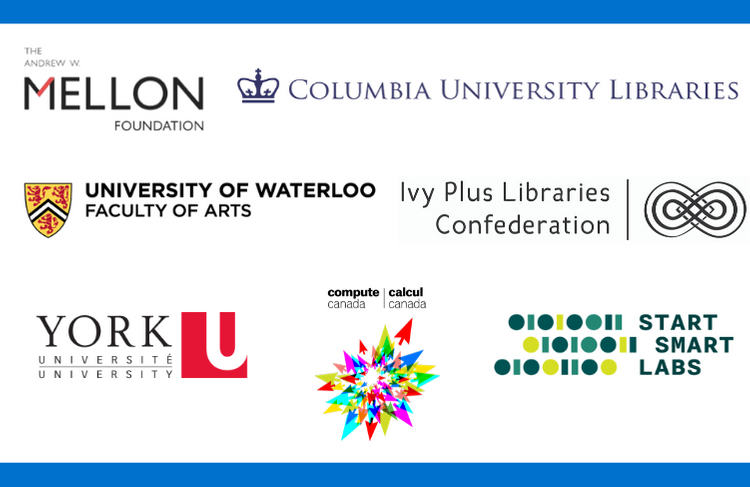
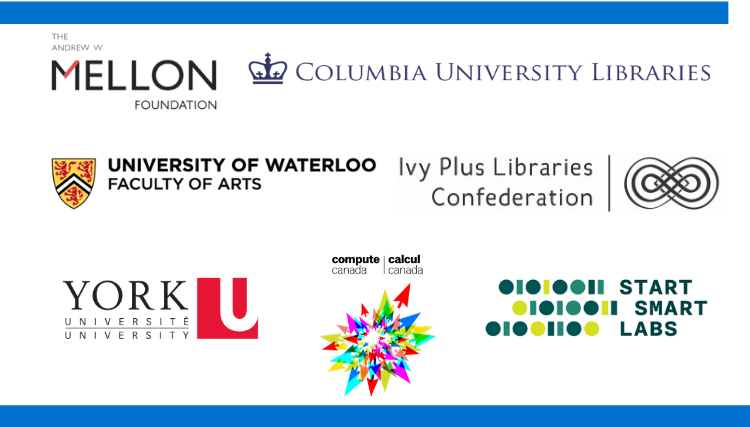
Updates NY sponsor graphic and formatting (put into table), also other little fixes

diff --git a/content/new-york/index.md b/content/new-york/index.md
@@ -22,7 +22,7 @@ For more information on AUT and the Cloud, please visit http://archivesunleashed
 
 * Ian Milligan (University of Waterloo)
 * Pamela Graham (Columbia University)
-* Samantha Abrams (Ivy Plus Libraries Confederation))
+* Samantha Abrams (Ivy Plus Libraries Confederation)
 * Alexander Thurman (Columbia University)
 * Nick Ruest (York University) 
 * Jimmy Lin (University of Waterloo)
@@ -30,25 +30,26 @@ For more information on AUT and the Cloud, please visit http://archivesunleashed
 
 ## **Sponsors**
 
-This event is possible thanks to the generous support of the <a href="https://mellon.org"> Andrew W. Mellon Foundation </a>, <a href="https://library.columbia.edu">Columbia University Libraries</a>, <a href="https://library.gwu.edu"> University of Waterloo’s Faculty of Arts </a>, <a href="http://www.yorku.ca"> York University Libraries </a>, <a href="https://www.computecanada.ca"> Compute Canada</a>, and <a href="http://www.startsmartlabs.com"> Start Smart Labs</a>.
+|                                             |                             |
+|----------------------------------------------|-----------------------------|
+| <br><br>![Sponsor Logos](/images/ny-sponsorslist.png) | This event is possible thanks to the generous support from: <br><br><a href="https://mellon.org"> Andrew W. Mellon Foundation </a> <br><br><a href="https://library.columbia.edu">Columbia University Libraries</a><br><br><a href="https://library.columbia.edu/collections/web-archives/Ivy_Plus_Libraries.html">Ivy Plus Libraries Confederation</a><br><br><a href="https://library.gwu.edu"> University of Waterloo’s Faculty of Arts </a><br><br><a href="http://www.yorku.ca"> York University Libraries </a><br><br><a href="https://www.computecanada.ca"> Compute Canada</a><br><br><a href="http://www.startsmartlabs.com"> Start Smart Labs</a> |
 
-![Sponsor Logos](/images/ny-sponsorslist.png)
 
 
-## **Submissions**
 
-Thank you for your interest in the Archives Unleashed Datathon! Submissions to attend the March 2020 event at Columbia University, NY have now **closed.**
+
+
 
 
 ## **Venue**
 
 Columbia University | Butler Library | 535 West 114th St., New York, NY 10027, USA
 
-<iframe src="https://www.google.com/maps/embed?pb=!1m18!1m12!1m3!1d6039.96275808335!2d-73.96541404909422!3d40.8064029792134!2m3!1f0!2f0!3f0!3m2!1i1024!2i768!4f13.1!3m3!1m2!1s0x89c2f63c31da1355%3A0xf11ddb8a69ec829b!2sButler%20Library!5e0!3m2!1sen!2sca!4v1567542633671!5m2!1sen!2sca" width="900" height="400" frameborder="0" style="border:0;" allowfullscreen=""></iframe>
+<iframe src="https://www.google.com/maps/embed?pb=!1m18!1m12!1m3!1d6039.96275808335!2d-73.96541404909422!3d40.8064029792134!2m3!1f0!2f0!3f0!3m2!1i1024!2i768!4f13.1!3m3!1m2!1s0x89c2f63c31da1355%3A0xf11ddb8a69ec829b!2sButler%20Library!5e0!3m2!1sen!2sca!4v1567542633671!5m2!1sen!2sca" width="900" height="380" frameborder="0" style="border:0;" allowfullscreen=""></iframe>
 
 ## **Butler Library**
 
-|<br><br><a href="/images/butler-floorplan.png"><img src="/images/butler-floorplan.png"></a> (click image to enlarge)| The Butler Library is located at the south end of the Morningside campus. The only public entrance is available through the campus side. <br><br>[General directions](https://library.columbia.edu/libraries/butler/directions.html) to the Butler Library are provided by Columbia University Libraries. The closest transit stops include the West 116th Street subway station (on the 1 train) or bus stop (M104, M4, M60).<br><br>Once you arrive at the Butler Library, you will need to check in with a piece of ID at the Library Information Office (located just inside the entrance). Then you can head to Room 203. |
+|<br><a href="/images/butler-floorplan.png"><img src="/images/butler-floorplan.png"></a> (click image to enlarge)| <br>The Butler Library is located at the south end of the Morningside campus. The only public entrance is available through the campus side. <br><br>[General directions](https://library.columbia.edu/libraries/butler/directions.html) to the Butler Library are provided by Columbia University Libraries. The closest transit stops include the West 116th Street subway station (on the 1 train) or bus stop (M104, M4, M60).<br><br>Once you arrive at the Butler Library, you will need to check in with a piece of ID at the Library Information Office (located just inside the entrance). Then you can head to Room 203. |
 |-----------------|--------------------------------------------------------------------------------------------------------------------------------------------------------------------------------------------------------------------------------------------------------------------------------------------------------------------------------------------------------------------------------------------------------------------------------------------------------------------------------------------------------------------------------------------------------------------------------------------------------------------|
 
 ## Schedule
@@ -59,14 +60,14 @@ Please click the image below to check out the <a href="/images/NYScheduleFull.pd
 
 |               |                  |
 |:-----------------:|:------------------------:|
-| <a href="/images/NYScheduleFull.pdf"><img src="/images/ny-day1.png"></a> | <a href="/images/NYScheduleFull.pdf"><img src="/images/ny-day2.png" ></a>
+| <a href="/images/NYScheduleFull.pdf"><img src="/images/ny-day1.png"></a><br>(click image to view PDF) | <a href="/images/NYScheduleFull.pdf"><img src="/images/ny-day2.png" ></a>
 
 ## **Important Notes**
 
 |                                       |                                       |
 |---------------------------------------|---------------------------------------|
 |**PHOTOGRAPHY** <br><br> ![Camera logo](/images/ny-camera100.png)| While not many photographs are taken at the event (especially with all the fantastic collaboration), but we ask that everyone be mindful of fellow attendees’ wishes. We ask that everyone make an effort to not photograph attendees who have a red dot sticker on their name badge. <br><br>If there are any questions or concerns, please don’t hesitate to reach out to any member of the Archives Unleashed team. |
-|**NUT ALLERGY** <br><br> ![No Nuts logo](/images/ny-nonuts100.png)| <br><br>Please be aware that we have a **serious nut allergy** among our group. To help ensure the comfort and safety of all our guests, we ask that participants refrain from bringing any nut products (snacks, hand creams, etc.). |
+|**NUT ALLERGY** <br><br> ![No Nuts logo](/images/ny-nonuts100.png)| <br><br>Please be aware that we have a **severe nut allergy** among our group. To help ensure the comfort and safety of all our guests, we ask that participants refrain from bringing any nut products (snacks, hand creams, etc.). |
 
 ## **Travel to New York**
 
@@ -173,6 +174,7 @@ ________________________________________________________________________________
 | 12 November 2019| Applicants notified |
 
 ## Submissions
+
 Thank you for your interest in the Archives Unleashed Datathon, submissions for the March 26-27 New York Datathon are now closed.
 
 Those interested in participating should submit the following to the Archives Unleashed Team (<a href="mailto:sam.fritz@archivesunleashed.org">sam.fritz@archivesunleashed.org</a>) by **midnight Eastern Standard Time** on **5 November 2019**:
